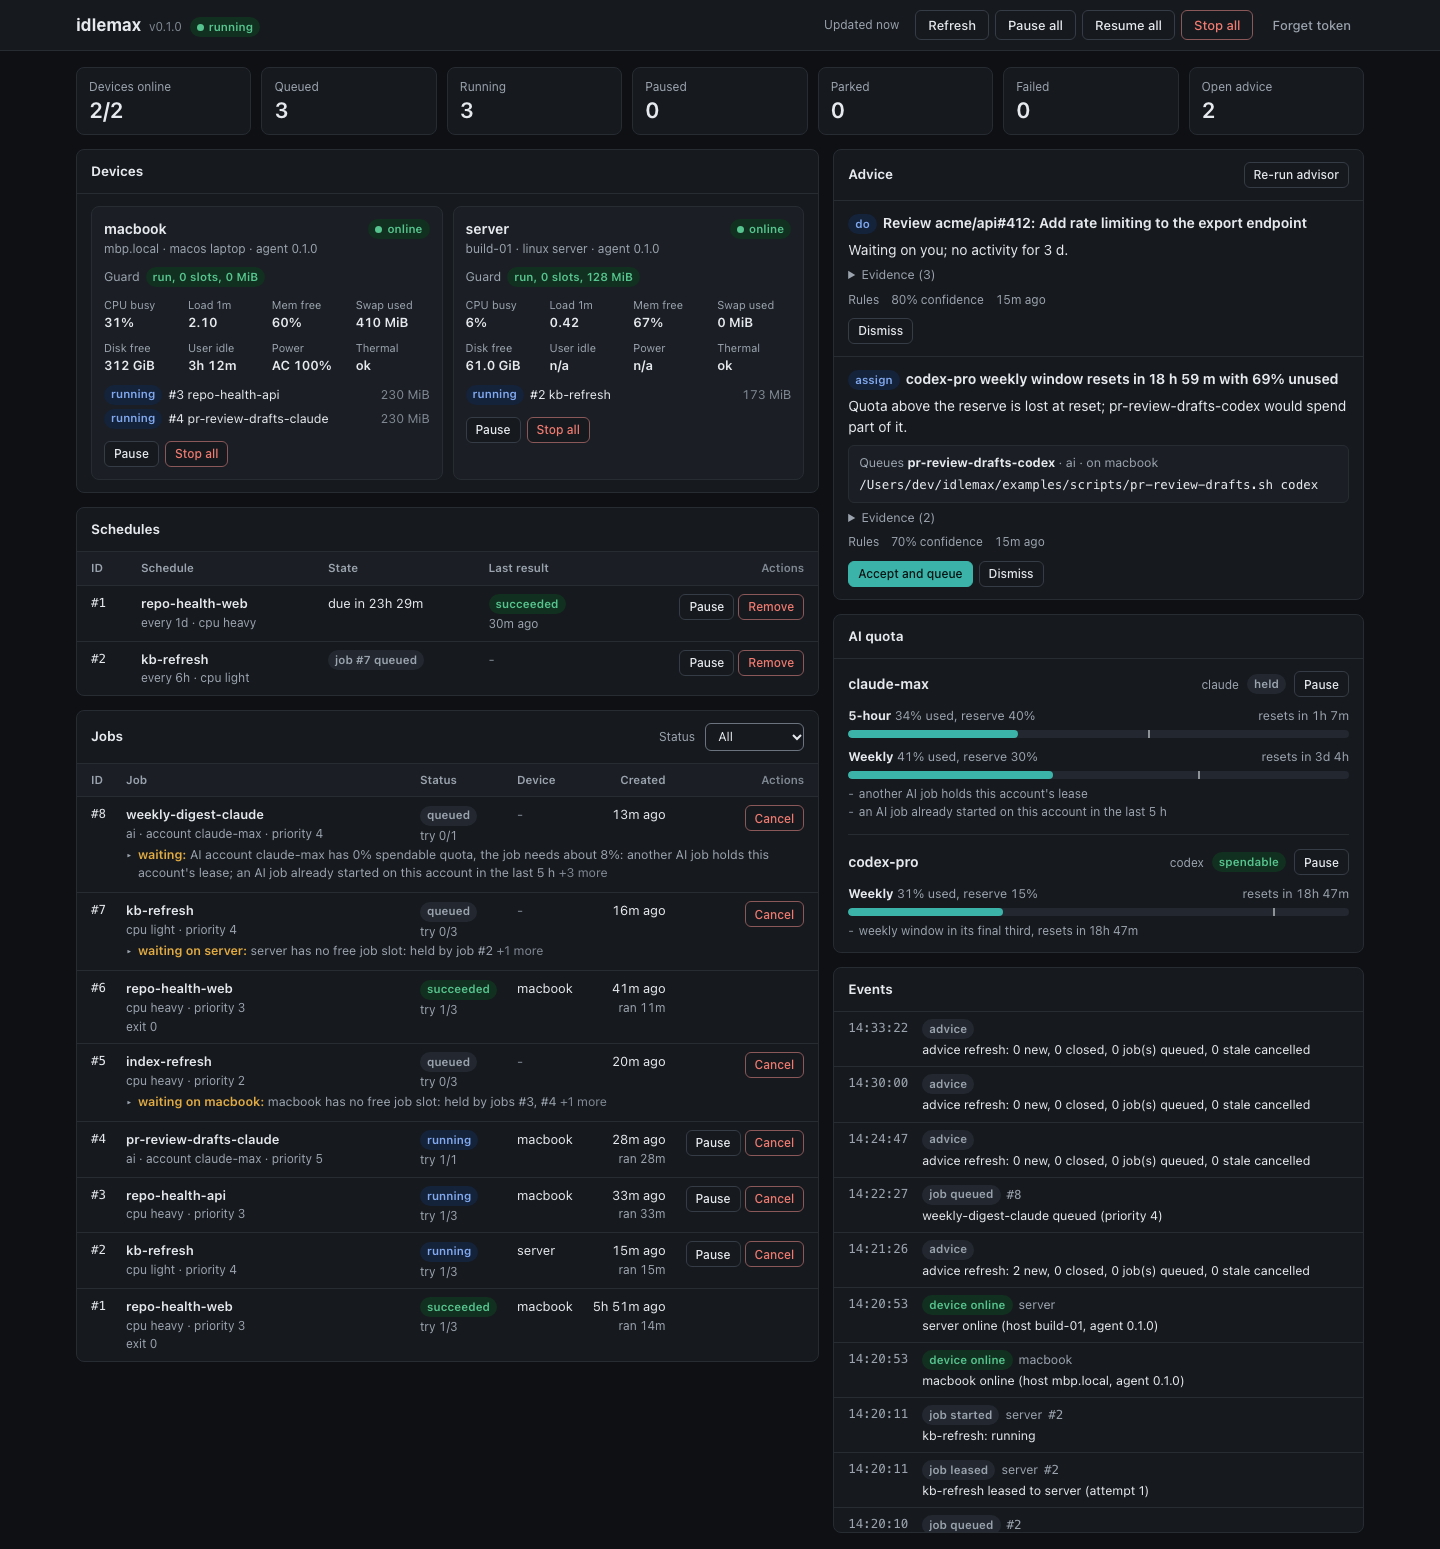
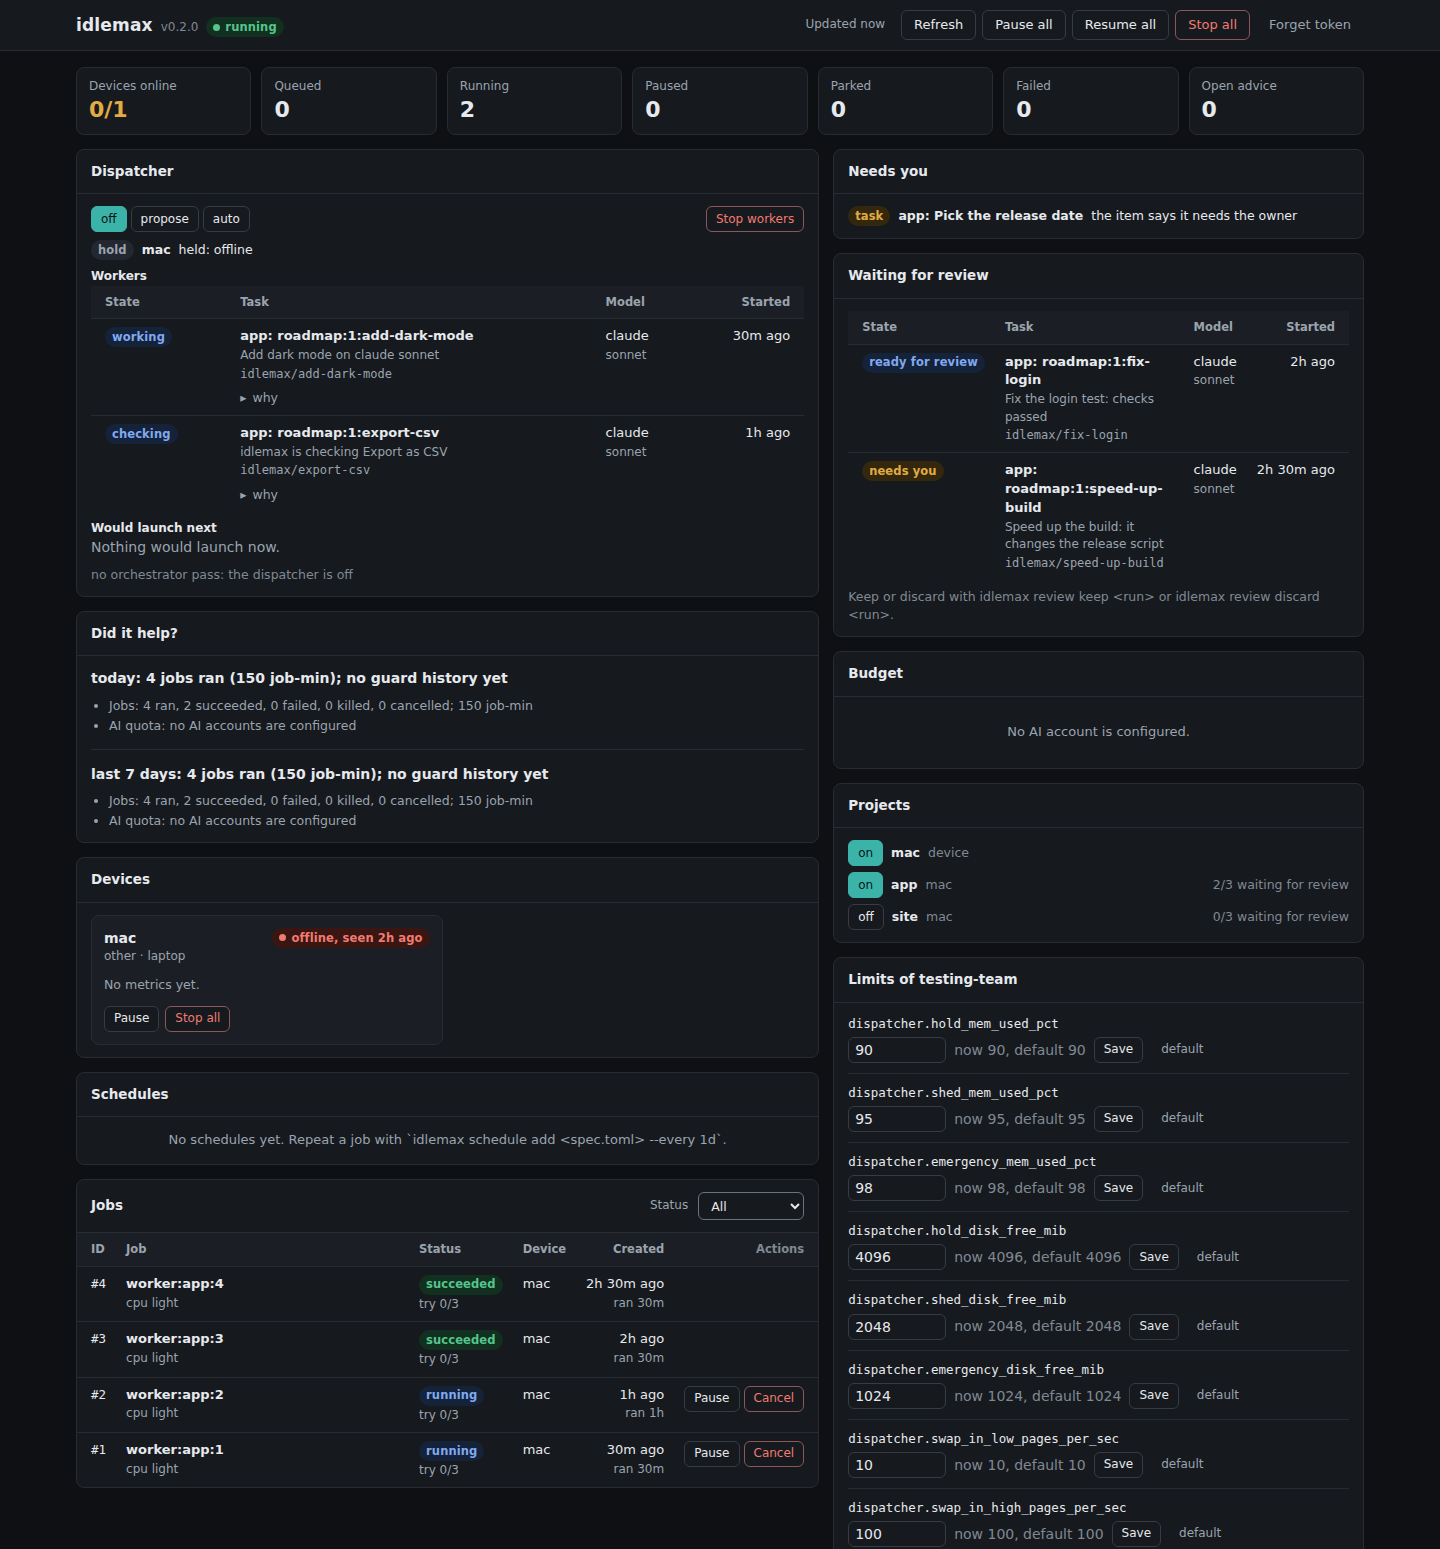
docs: retake the dashboard screenshots and close spec 4 note 31
The browser run of TS-001 to TS-006 has now happened and checked the
phone, theme and focus items, so note 31 says so. The two README
screenshots are taken again from the fixture home with the dispatcher
cards, and their alt text describes the new picture.

diff --git a/docs/plans/2026-11-11-dispatcher-4-control.md b/docs/plans/2026-11-11-dispatcher-4-control.md
@@ -876,4 +876,4 @@ No code changes here.
 28. implementation (Task 1): `ViewInput` has no `devices` field; the devices come from the Plan's `DevicePlan`s, `DeviceLine.enabled` stays `None` and `limits` empty, and Spec 5 adds the field when it sets them. The `device:<id>:off` kind is built and tested through `device_needs` and fires once `enabled` is set.
 29. implementation (Task 6): `admit` takes the pass's `RuleProposal` (run, line, reason) as one value, `admit(&proposal, run_state, rules_text, earlier)`, rather than the three fields apart. It also refuses a line that starts with `- ` or `#`, which would change the shape of the owner's file, and a reason with a control character; `check_lengths` bounds the proposal's reason like every other reason.
 30. implementation (Task 7): a day is checked once, at the first sweep after 09:00; an empty day covers its `daily:<date>` key with no notice, so a task that finishes later that day sends no "summary" of the 24 hours before 09:00. Notice items are pruned by `last_seen_ms`, so a condition that lasts a month stays covered.
-31. implementation (Task 9): "Stop workers" falls back to `stop_all` on `POST /v1/control` while `POST /v1/workers/stop` answers 404 (Spec 2 Task 10), and says so; "Start" explains its 404. A refused limit keeps the typed text and the row shows the stored value as `now <value>`. A test checks every path the script calls against the router, with the worker and device routes named as pending. The two screenshots are not retaken: the fixture home has one offline device and no account, so it would show less than the current pictures; they are retaken with the browser run of TS-001 to TS-006, which also proves the phone, theme and focus items. That run could not happen on the build host (the headless browser lacks system libraries), so those three boxes stay open.
+31. implementation (Task 9): "Stop workers" falls back to `stop_all` on `POST /v1/control` while `POST /v1/workers/stop` answers 404 (Spec 2 Task 10), and says so; "Start" explains its 404. A refused limit keeps the typed text and the row shows the stored value as `now <value>`. A test checks every path the script calls against the router, with the worker and device routes named as pending. The browser run of TS-001 to TS-006 then ran in headless Chromium against the fixture home, with the system libraries it lacked supplied beside it, and also checked the focus order, a limit input across a poll, and the cards at 390x844 in both themes and at 1280x1800. At phone width the Workers and Waiting for review tables squeezed the Task column until words broke letter by letter, so their rows now stack like the Jobs card's below 640 px. With that, every check of the run passes and the phone, theme and focus boxes are ticked. The two screenshots were retaken from the fixture home at 1440x1549 just before that run: one offline device, two workers, two runs waiting for review, and no account.

diff --git a/README.md b/README.md
@@ -39,7 +39,7 @@ Workers rest the same way: one limit message stops that account's workers with t
 <picture>
   <source media="(prefers-color-scheme: dark)" srcset="docs/assets/dashboard-dark.png">
   <source media="(prefers-color-scheme: light)" srcset="docs/assets/dashboard-light.png">
-  <img alt="The idlemax web dashboard: a MacBook and a server with guard verdicts and metrics, two recurring schedules, three queued jobs that each say why they are waiting, three running jobs, two pieces of advice, and Claude and Codex quota windows with the reserve marked on each bar" src="docs/assets/dashboard-light.png">
+  <img alt="The idlemax web dashboard: the Dispatcher card with its mode switch, Stop workers and two workers, a Needs you item, two runs waiting for review, the Budget, project switches, the dispatcher limits, the Did it help report, an offline Mac, and four worker jobs" src="docs/assets/dashboard-light.png">
 </picture>
 
 The web dashboard follows your system theme.
